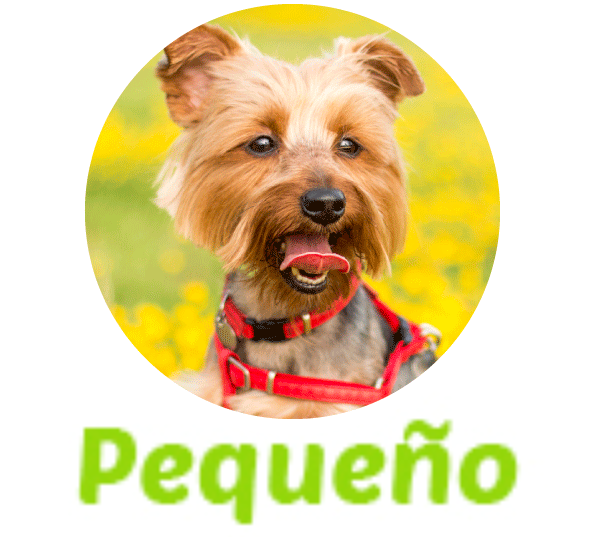
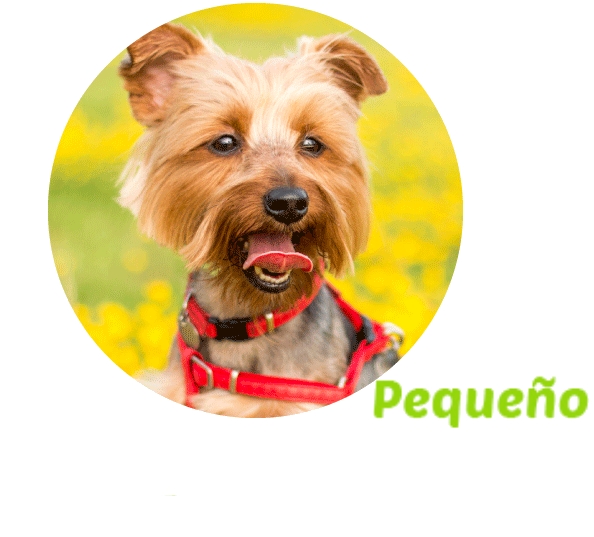
responsive fase 1

diff --git a/wp-content/themes/kmibox/quiero-mi-marca.php b/wp-content/themes/kmibox/quiero-mi-marca.php
@@ -82,24 +82,40 @@
 			</section>
 
 			<section id="fase_2" class="hidden">
-				<div class="comprar_box" style="margin-left: 15%">
-					
+				<div class="comprar_box" style="margin-left: 15%">					
 						<div id="vlz_carrousel_2" class="vlz_carrousel hidden-xs"></div>
 						<div id="carrousel_2" class="vlz_carrousel hidden-lg hidden-md hidden-sm hidden-xs"></div>
-					
 				</div>
 
 				<div class="row hidden-lg hidden-md hidden-sm purchase" id="group-purchase">
-				<article id="movimiento1" class="col-md-1 col-md-offset-1 text-center vertical-center">
+				
+				<article id="f4-slider-prev" class="col-md-1 col-md-offset-1 text-center vertical-center">
 					<i class="fa fa-chevron-left fa-2x" aria-hidden="true"></i>
 				</article>
 
 				<article id="f4-slider-item1" 
 					class="hidden-xs hidden-sm col-md-1 text-center vertical-center">
-					<img src="" id="vlz_carrousel_2" class="img-responsive" width="300px">
+					<img src="" class="img-responsive" width="300px">
 				</article>
-				
-				<article id="movimiento" class="col-md-1 text-center vertical-center">
+				<article id="f4-slider-item2" 
+					class="hidden-xs hidden-sm col-md-2 text-center vertical-center">
+					<img src=""  class="img-responsive" width="300px">
+				</article>
+
+				<article id="f4-slider-item3" data-target="add"
+					class="col-xs-12 col-sm-12 col-md-4 text-center vertical-center">
+					<img src=""  class="img-responsive" height="300px" width="300px">
+				</article>
+
+				<article id="f4-slider-item4" 
+					class="hidden-xs hidden-sm col-md-2 text-center vertical-center">
+					<img src=""  class="img-responsive" width="300px">
+				</article>
+				<article id="f4-slider-item5" 
+					class="hidden-xs hidden-sm col-md-1 text-center vertical-center">
+					<img src=""  class="img-responsive" width="300px">
+				</article>
+				<article id="f4-slider-next" class="col-md-1 text-center vertical-center">
 					<i class="fa fa-chevron-right fa-2x" aria-hidden="true"></i>
 				</article>
 			</div>
